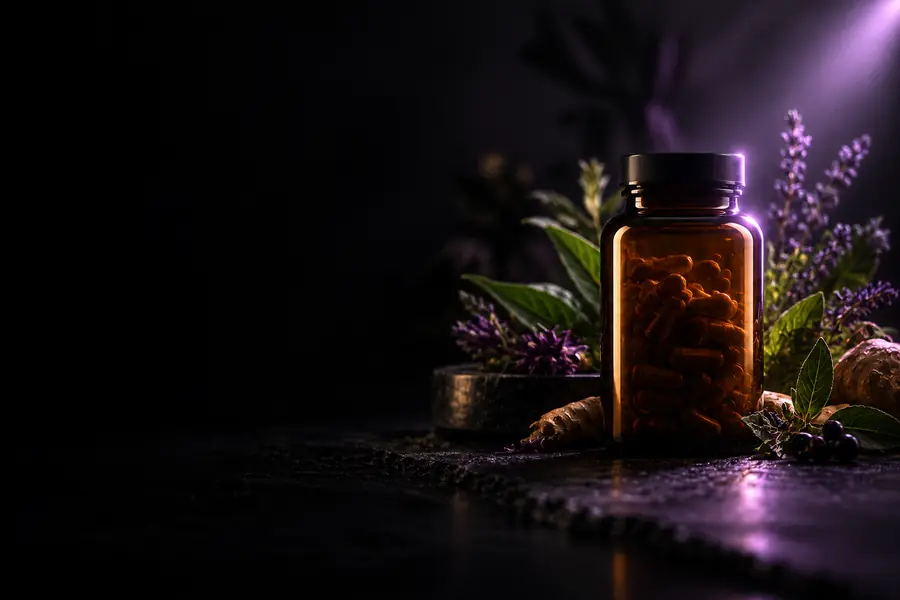
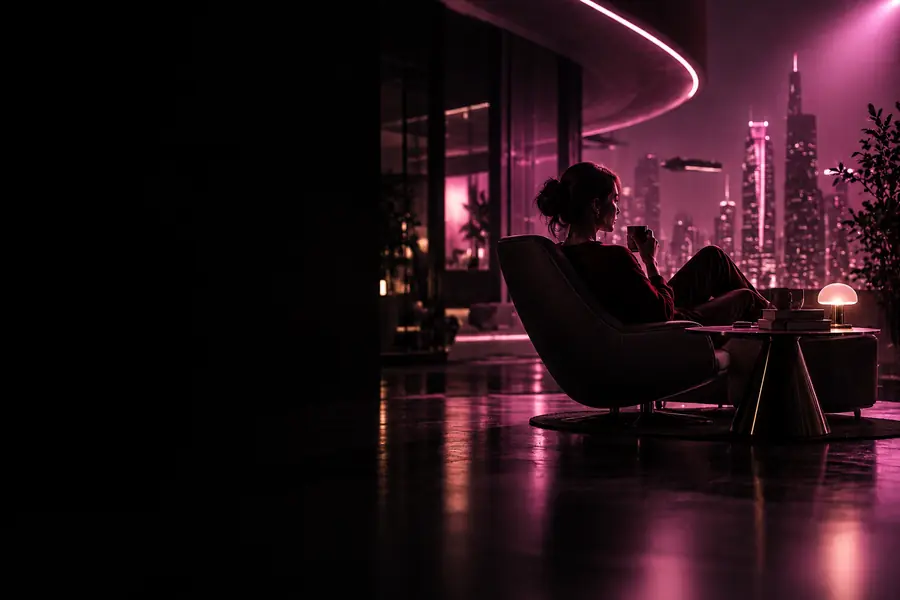
Healthcare- und Consumer-Motiv korrigiert
Zwei Zuordnungen waren falsch:

- Das Labor mit der Doppelhelix auf dem Bildschirm im Hintergrund ist das
  Healthcare-Motiv und ersetzt die bisherige Laborstraße.
- Die Lounge mit Skyline lief als zweites Services-Motiv, gehört aber zu
  Consumer und ersetzt dort die Flasche mit Botanik. Services steht damit
  wieder auf einer Fassung.

Fünf Motive, zusammen 113 KB. Kein Sektor hat derzeit mehr als eine Fassung;
zwei Unternehmen desselben Sektors teilen sich also das Bild und
unterscheiden sich über Farbton, Monogramm und Signet.

Claude-Session: https://claude.ai/code/session_014oEVd5EhVuguVVWhLFUukM

diff --git a/components/pel/battle.tsx b/components/pel/battle.tsx
@@ -151,7 +151,7 @@ export function identityOf(name, sector) {
    Dateien heißen `<sektor>-<nummer>.webp`, durchnummeriert ab 1. Wer ein Motiv
    hinzufügt, erhöht hier die Zahl — sonst wird es nie gezogen.             */
 export const PHOTO_VARIANTS = {
-  Software: 1, Healthcare: 1, Industrials: 1, Services: 2, Consumer: 1,
+  Software: 1, Healthcare: 1, Industrials: 1, Services: 1, Consumer: 1,
 };
 /* Die beiden Stellschrauben der Farbkorrektur, an einer Stelle, weil sie
    zusammen wirken: Sättigung des Motivs und Deckkraft der Firmenfarbe darüber.
